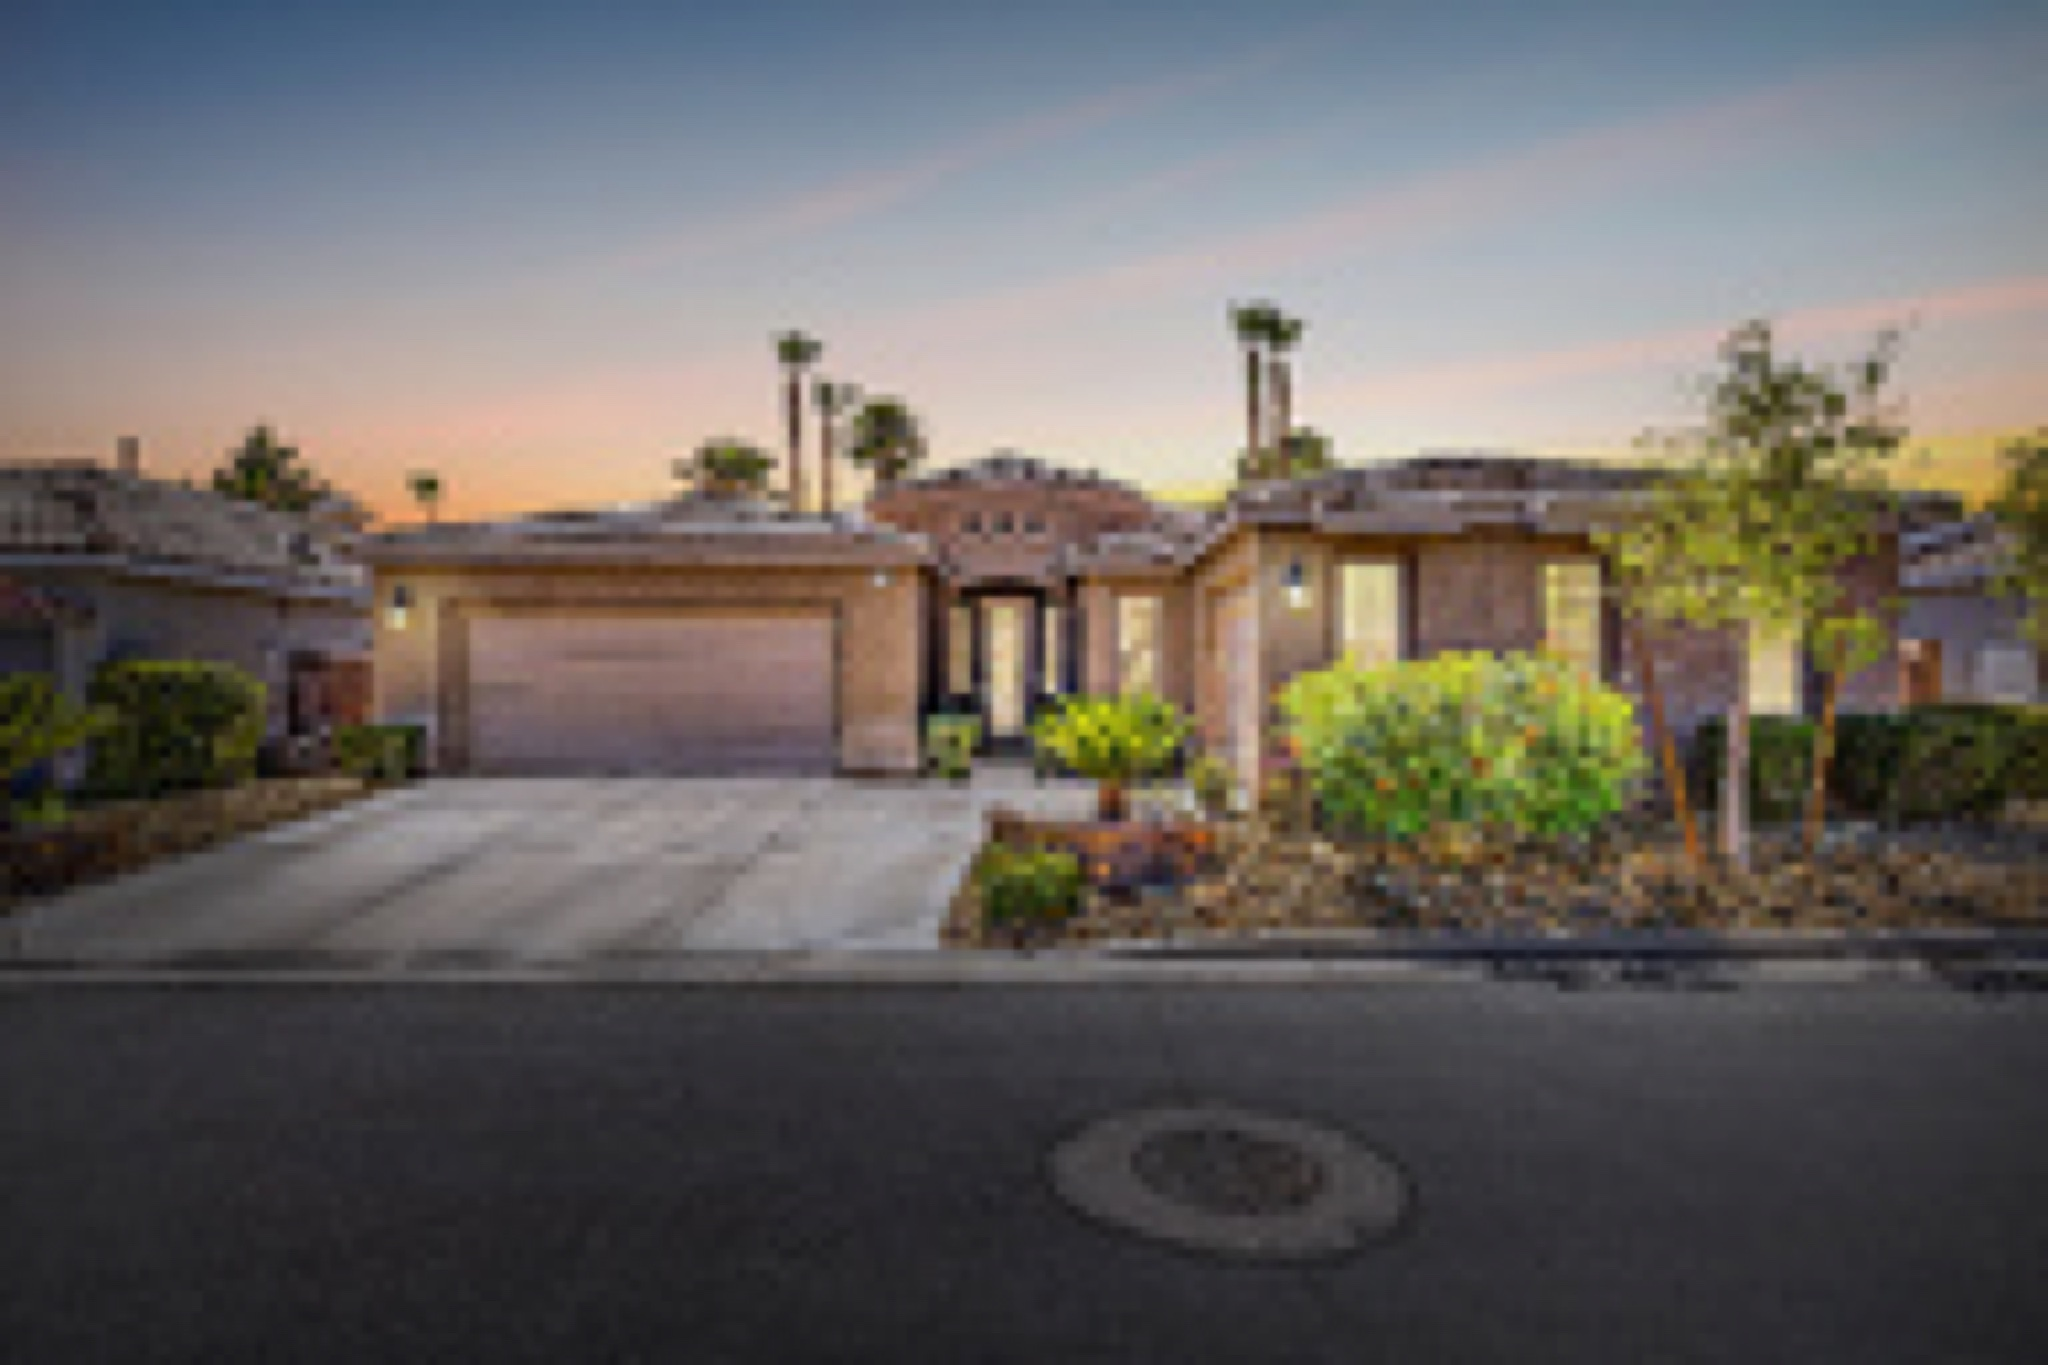
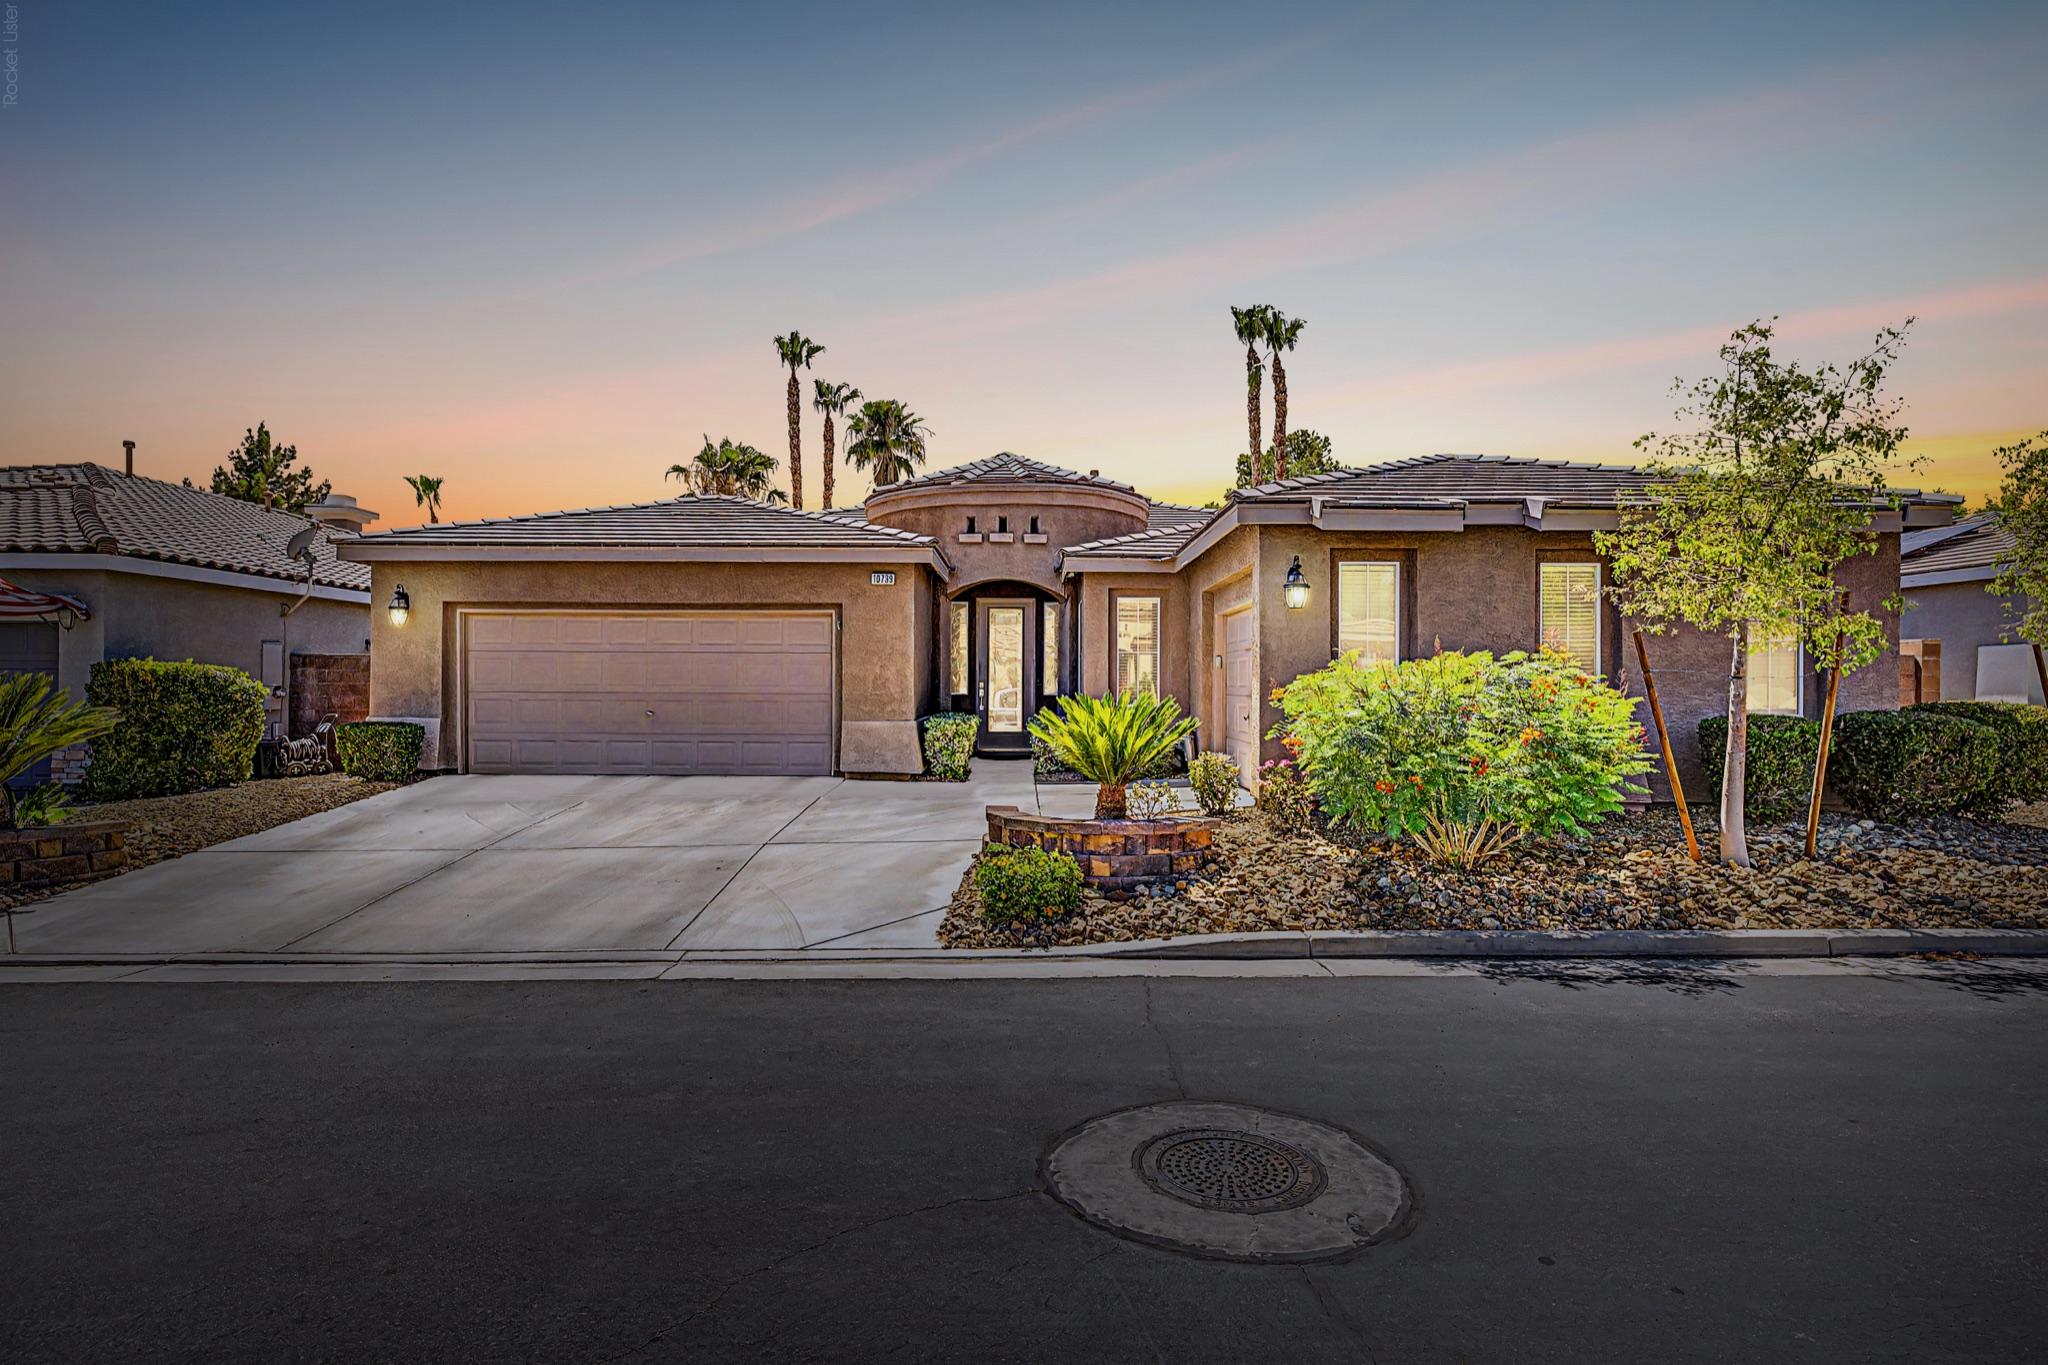
Use sharp twilight for hero; move front shot out of clickable gallery
- Replace hero image with high-res dusk photo (blurry one swapped out);
  dark hero gradient hides the faint watermark and the facade house number
- Keep twilight out of the full-size gallery; promote clean interior (home_14)
  to the gallery lead tile so no address-bearing front shot is viewable full-size

Changed region(s): [[0.0, 0.2154, 1.0, 0.7385], [0.5625, 0.8308, 0.6562, 0.8923], [0.3438, 0.6154, 0.4062, 0.6462]]

diff --git a/index.html b/index.html
@@ -398,7 +398,7 @@
     </div>
 
     <div class="gallery-grid" id="gallery">
-      <figure class="feature" data-index="0"><img src="photos/home_twilight.jpg" alt="Off-market single-story home in Southern Highlands, Las Vegas 89141" loading="lazy" /></figure>
+      <figure class="feature" data-index="0"><img src="photos/home_14.jpg" alt="Off-market single-story home in Southern Highlands, Las Vegas 89141" loading="lazy" /></figure>
       <figure data-index="1"><img src="photos/home_04.jpg" alt="Off-market single-story home in Southern Highlands, Las Vegas 89141" loading="lazy" /></figure>
       <figure data-index="2"><img src="photos/home_05.jpg" alt="Off-market single-story home in Southern Highlands, Las Vegas 89141" loading="lazy" /></figure>
       <figure data-index="3"><img src="photos/home_06.jpg" alt="Off-market single-story home in Southern Highlands, Las Vegas 89141" loading="lazy" /></figure>
@@ -409,58 +409,57 @@
       <figure data-index="8"><img src="photos/home_11.jpg" alt="Off-market single-story home in Southern Highlands, Las Vegas 89141" loading="lazy" /></figure>
       <figure data-index="9"><img src="photos/home_12.jpg" alt="Off-market single-story home in Southern Highlands, Las Vegas 89141" loading="lazy" /></figure>
       <figure data-index="10"><img src="photos/home_13.jpg" alt="Off-market single-story home in Southern Highlands, Las Vegas 89141" loading="lazy" /></figure>
-      <figure data-index="11"><img src="photos/home_14.jpg" alt="Off-market single-story home in Southern Highlands, Las Vegas 89141" loading="lazy" /></figure>
-      <figure data-index="12"><img src="photos/home_15.jpg" alt="Off-market single-story home in Southern Highlands, Las Vegas 89141" loading="lazy" /></figure>
-      <figure data-index="13"><img src="photos/home_16.jpg" alt="Off-market single-story home in Southern Highlands, Las Vegas 89141" loading="lazy" /></figure>
-      <figure data-index="14"><img src="photos/home_17.jpg" alt="Off-market single-story home in Southern Highlands, Las Vegas 89141" loading="lazy" /></figure>
-      <figure data-index="15"><img src="photos/home_18.jpg" alt="Off-market single-story home in Southern Highlands, Las Vegas 89141" loading="lazy" /></figure>
-      <figure data-index="16"><img src="photos/home_19.jpg" alt="Off-market single-story home in Southern Highlands, Las Vegas 89141" loading="lazy" /></figure>
-      <figure data-index="17"><img src="photos/home_20.jpg" alt="Off-market single-story home in Southern Highlands, Las Vegas 89141" loading="lazy" /></figure>
-      <figure data-index="18"><img src="photos/home_21.jpg" alt="Off-market single-story home in Southern Highlands, Las Vegas 89141" loading="lazy" /></figure>
-      <figure data-index="19"><img src="photos/home_22.jpg" alt="Off-market single-story home in Southern Highlands, Las Vegas 89141" loading="lazy" /></figure>
-      <figure data-index="20"><img src="photos/home_23.jpg" alt="Off-market single-story home in Southern Highlands, Las Vegas 89141" loading="lazy" /></figure>
-      <figure data-index="21"><img src="photos/home_24.jpg" alt="Off-market single-story home in Southern Highlands, Las Vegas 89141" loading="lazy" /></figure>
-      <figure data-index="22"><img src="photos/home_25.jpg" alt="Off-market single-story home in Southern Highlands, Las Vegas 89141" loading="lazy" /></figure>
-      <figure data-index="23"><img src="photos/home_26.jpg" alt="Off-market single-story home in Southern Highlands, Las Vegas 89141" loading="lazy" /></figure>
-      <figure data-index="24"><img src="photos/home_27.jpg" alt="Off-market single-story home in Southern Highlands, Las Vegas 89141" loading="lazy" /></figure>
-      <figure data-index="25"><img src="photos/home_28.jpg" alt="Off-market single-story home in Southern Highlands, Las Vegas 89141" loading="lazy" /></figure>
-      <figure data-index="26"><img src="photos/home_29.jpg" alt="Off-market single-story home in Southern Highlands, Las Vegas 89141" loading="lazy" /></figure>
-      <figure data-index="27"><img src="photos/home_30.jpg" alt="Off-market single-story home in Southern Highlands, Las Vegas 89141" loading="lazy" /></figure>
-      <figure data-index="28"><img src="photos/home_31.jpg" alt="Off-market single-story home in Southern Highlands, Las Vegas 89141" loading="lazy" /></figure>
-      <figure data-index="29"><img src="photos/home_32.jpg" alt="Off-market single-story home in Southern Highlands, Las Vegas 89141" loading="lazy" /></figure>
-      <figure data-index="30"><img src="photos/home_33.jpg" alt="Off-market single-story home in Southern Highlands, Las Vegas 89141" loading="lazy" /></figure>
-      <figure data-index="31"><img src="photos/home_34.jpg" alt="Off-market single-story home in Southern Highlands, Las Vegas 89141" loading="lazy" /></figure>
-      <figure data-index="32"><img src="photos/home_35.jpg" alt="Off-market single-story home in Southern Highlands, Las Vegas 89141" loading="lazy" /></figure>
-      <figure data-index="33"><img src="photos/home_36.jpg" alt="Off-market single-story home in Southern Highlands, Las Vegas 89141" loading="lazy" /></figure>
-      <figure data-index="34"><img src="photos/home_37.jpg" alt="Off-market single-story home in Southern Highlands, Las Vegas 89141" loading="lazy" /></figure>
-      <figure data-index="35"><img src="photos/home_38.jpg" alt="Off-market single-story home in Southern Highlands, Las Vegas 89141" loading="lazy" /></figure>
-      <figure data-index="36"><img src="photos/home_39.jpg" alt="Off-market single-story home in Southern Highlands, Las Vegas 89141" loading="lazy" /></figure>
-      <figure data-index="37"><img src="photos/home_40.jpg" alt="Off-market single-story home in Southern Highlands, Las Vegas 89141" loading="lazy" /></figure>
-      <figure data-index="38"><img src="photos/home_41.jpg" alt="Off-market single-story home in Southern Highlands, Las Vegas 89141" loading="lazy" /></figure>
-      <figure data-index="39"><img src="photos/home_42.jpg" alt="Off-market single-story home in Southern Highlands, Las Vegas 89141" loading="lazy" /></figure>
-      <figure data-index="40"><img src="photos/home_43.jpg" alt="Off-market single-story home in Southern Highlands, Las Vegas 89141" loading="lazy" /></figure>
-      <figure data-index="41"><img src="photos/home_44.jpg" alt="Off-market single-story home in Southern Highlands, Las Vegas 89141" loading="lazy" /></figure>
-      <figure data-index="42"><img src="photos/home_45.jpg" alt="Off-market single-story home in Southern Highlands, Las Vegas 89141" loading="lazy" /></figure>
-      <figure data-index="43"><img src="photos/home_46.jpg" alt="Off-market single-story home in Southern Highlands, Las Vegas 89141" loading="lazy" /></figure>
-      <figure data-index="44"><img src="photos/home_47.jpg" alt="Off-market single-story home in Southern Highlands, Las Vegas 89141" loading="lazy" /></figure>
-      <figure data-index="45"><img src="photos/home_48.jpg" alt="Off-market single-story home in Southern Highlands, Las Vegas 89141" loading="lazy" /></figure>
-      <figure data-index="46"><img src="photos/home_49.jpg" alt="Off-market single-story home in Southern Highlands, Las Vegas 89141" loading="lazy" /></figure>
-      <figure data-index="47"><img src="photos/home_50.jpg" alt="Off-market single-story home in Southern Highlands, Las Vegas 89141" loading="lazy" /></figure>
-      <figure data-index="48"><img src="photos/home_51.jpg" alt="Off-market single-story home in Southern Highlands, Las Vegas 89141" loading="lazy" /></figure>
-      <figure data-index="49"><img src="photos/home_52.jpg" alt="Off-market single-story home in Southern Highlands, Las Vegas 89141" loading="lazy" /></figure>
-      <figure data-index="50"><img src="photos/home_53.jpg" alt="Off-market single-story home in Southern Highlands, Las Vegas 89141" loading="lazy" /></figure>
-      <figure data-index="51"><img src="photos/home_54.jpg" alt="Off-market single-story home in Southern Highlands, Las Vegas 89141" loading="lazy" /></figure>
-      <figure data-index="52"><img src="photos/home_55.jpg" alt="Off-market single-story home in Southern Highlands, Las Vegas 89141" loading="lazy" /></figure>
-      <figure data-index="53"><img src="photos/home_56.jpg" alt="Off-market single-story home in Southern Highlands, Las Vegas 89141" loading="lazy" /></figure>
-      <figure data-index="54"><img src="photos/home_57.jpg" alt="Off-market single-story home in Southern Highlands, Las Vegas 89141" loading="lazy" /></figure>
-      <figure data-index="55"><img src="photos/home_58.jpg" alt="Off-market single-story home in Southern Highlands, Las Vegas 89141" loading="lazy" /></figure>
-      <figure data-index="56"><img src="photos/home_59.jpg" alt="Off-market single-story home in Southern Highlands, Las Vegas 89141" loading="lazy" /></figure>
-      <figure data-index="57"><img src="photos/home_60.jpg" alt="Off-market single-story home in Southern Highlands, Las Vegas 89141" loading="lazy" /></figure>
-      <figure data-index="58"><img src="photos/home_61.jpg" alt="Off-market single-story home in Southern Highlands, Las Vegas 89141" loading="lazy" /></figure>
-      <figure data-index="59"><img src="photos/home_62.jpg" alt="Off-market single-story home in Southern Highlands, Las Vegas 89141" loading="lazy" /></figure>
-      <figure data-index="60"><img src="photos/home_63.jpg" alt="Off-market single-story home in Southern Highlands, Las Vegas 89141" loading="lazy" /></figure>
-      <figure data-index="61"><img src="photos/home_64.jpg" alt="Off-market single-story home in Southern Highlands, Las Vegas 89141" loading="lazy" /></figure>
-      <figure data-index="62"><img src="photos/home_65.jpg" alt="Off-market single-story home in Southern Highlands, Las Vegas 89141" loading="lazy" /></figure>
+      <figure data-index="11"><img src="photos/home_15.jpg" alt="Off-market single-story home in Southern Highlands, Las Vegas 89141" loading="lazy" /></figure>
+      <figure data-index="12"><img src="photos/home_16.jpg" alt="Off-market single-story home in Southern Highlands, Las Vegas 89141" loading="lazy" /></figure>
+      <figure data-index="13"><img src="photos/home_17.jpg" alt="Off-market single-story home in Southern Highlands, Las Vegas 89141" loading="lazy" /></figure>
+      <figure data-index="14"><img src="photos/home_18.jpg" alt="Off-market single-story home in Southern Highlands, Las Vegas 89141" loading="lazy" /></figure>
+      <figure data-index="15"><img src="photos/home_19.jpg" alt="Off-market single-story home in Southern Highlands, Las Vegas 89141" loading="lazy" /></figure>
+      <figure data-index="16"><img src="photos/home_20.jpg" alt="Off-market single-story home in Southern Highlands, Las Vegas 89141" loading="lazy" /></figure>
+      <figure data-index="17"><img src="photos/home_21.jpg" alt="Off-market single-story home in Southern Highlands, Las Vegas 89141" loading="lazy" /></figure>
+      <figure data-index="18"><img src="photos/home_22.jpg" alt="Off-market single-story home in Southern Highlands, Las Vegas 89141" loading="lazy" /></figure>
+      <figure data-index="19"><img src="photos/home_23.jpg" alt="Off-market single-story home in Southern Highlands, Las Vegas 89141" loading="lazy" /></figure>
+      <figure data-index="20"><img src="photos/home_24.jpg" alt="Off-market single-story home in Southern Highlands, Las Vegas 89141" loading="lazy" /></figure>
+      <figure data-index="21"><img src="photos/home_25.jpg" alt="Off-market single-story home in Southern Highlands, Las Vegas 89141" loading="lazy" /></figure>
+      <figure data-index="22"><img src="photos/home_26.jpg" alt="Off-market single-story home in Southern Highlands, Las Vegas 89141" loading="lazy" /></figure>
+      <figure data-index="23"><img src="photos/home_27.jpg" alt="Off-market single-story home in Southern Highlands, Las Vegas 89141" loading="lazy" /></figure>
+      <figure data-index="24"><img src="photos/home_28.jpg" alt="Off-market single-story home in Southern Highlands, Las Vegas 89141" loading="lazy" /></figure>
+      <figure data-index="25"><img src="photos/home_29.jpg" alt="Off-market single-story home in Southern Highlands, Las Vegas 89141" loading="lazy" /></figure>
+      <figure data-index="26"><img src="photos/home_30.jpg" alt="Off-market single-story home in Southern Highlands, Las Vegas 89141" loading="lazy" /></figure>
+      <figure data-index="27"><img src="photos/home_31.jpg" alt="Off-market single-story home in Southern Highlands, Las Vegas 89141" loading="lazy" /></figure>
+      <figure data-index="28"><img src="photos/home_32.jpg" alt="Off-market single-story home in Southern Highlands, Las Vegas 89141" loading="lazy" /></figure>
+      <figure data-index="29"><img src="photos/home_33.jpg" alt="Off-market single-story home in Southern Highlands, Las Vegas 89141" loading="lazy" /></figure>
+      <figure data-index="30"><img src="photos/home_34.jpg" alt="Off-market single-story home in Southern Highlands, Las Vegas 89141" loading="lazy" /></figure>
+      <figure data-index="31"><img src="photos/home_35.jpg" alt="Off-market single-story home in Southern Highlands, Las Vegas 89141" loading="lazy" /></figure>
+      <figure data-index="32"><img src="photos/home_36.jpg" alt="Off-market single-story home in Southern Highlands, Las Vegas 89141" loading="lazy" /></figure>
+      <figure data-index="33"><img src="photos/home_37.jpg" alt="Off-market single-story home in Southern Highlands, Las Vegas 89141" loading="lazy" /></figure>
+      <figure data-index="34"><img src="photos/home_38.jpg" alt="Off-market single-story home in Southern Highlands, Las Vegas 89141" loading="lazy" /></figure>
+      <figure data-index="35"><img src="photos/home_39.jpg" alt="Off-market single-story home in Southern Highlands, Las Vegas 89141" loading="lazy" /></figure>
+      <figure data-index="36"><img src="photos/home_40.jpg" alt="Off-market single-story home in Southern Highlands, Las Vegas 89141" loading="lazy" /></figure>
+      <figure data-index="37"><img src="photos/home_41.jpg" alt="Off-market single-story home in Southern Highlands, Las Vegas 89141" loading="lazy" /></figure>
+      <figure data-index="38"><img src="photos/home_42.jpg" alt="Off-market single-story home in Southern Highlands, Las Vegas 89141" loading="lazy" /></figure>
+      <figure data-index="39"><img src="photos/home_43.jpg" alt="Off-market single-story home in Southern Highlands, Las Vegas 89141" loading="lazy" /></figure>
+      <figure data-index="40"><img src="photos/home_44.jpg" alt="Off-market single-story home in Southern Highlands, Las Vegas 89141" loading="lazy" /></figure>
+      <figure data-index="41"><img src="photos/home_45.jpg" alt="Off-market single-story home in Southern Highlands, Las Vegas 89141" loading="lazy" /></figure>
+      <figure data-index="42"><img src="photos/home_46.jpg" alt="Off-market single-story home in Southern Highlands, Las Vegas 89141" loading="lazy" /></figure>
+      <figure data-index="43"><img src="photos/home_47.jpg" alt="Off-market single-story home in Southern Highlands, Las Vegas 89141" loading="lazy" /></figure>
+      <figure data-index="44"><img src="photos/home_48.jpg" alt="Off-market single-story home in Southern Highlands, Las Vegas 89141" loading="lazy" /></figure>
+      <figure data-index="45"><img src="photos/home_49.jpg" alt="Off-market single-story home in Southern Highlands, Las Vegas 89141" loading="lazy" /></figure>
+      <figure data-index="46"><img src="photos/home_50.jpg" alt="Off-market single-story home in Southern Highlands, Las Vegas 89141" loading="lazy" /></figure>
+      <figure data-index="47"><img src="photos/home_51.jpg" alt="Off-market single-story home in Southern Highlands, Las Vegas 89141" loading="lazy" /></figure>
+      <figure data-index="48"><img src="photos/home_52.jpg" alt="Off-market single-story home in Southern Highlands, Las Vegas 89141" loading="lazy" /></figure>
+      <figure data-index="49"><img src="photos/home_53.jpg" alt="Off-market single-story home in Southern Highlands, Las Vegas 89141" loading="lazy" /></figure>
+      <figure data-index="50"><img src="photos/home_54.jpg" alt="Off-market single-story home in Southern Highlands, Las Vegas 89141" loading="lazy" /></figure>
+      <figure data-index="51"><img src="photos/home_55.jpg" alt="Off-market single-story home in Southern Highlands, Las Vegas 89141" loading="lazy" /></figure>
+      <figure data-index="52"><img src="photos/home_56.jpg" alt="Off-market single-story home in Southern Highlands, Las Vegas 89141" loading="lazy" /></figure>
+      <figure data-index="53"><img src="photos/home_57.jpg" alt="Off-market single-story home in Southern Highlands, Las Vegas 89141" loading="lazy" /></figure>
+      <figure data-index="54"><img src="photos/home_58.jpg" alt="Off-market single-story home in Southern Highlands, Las Vegas 89141" loading="lazy" /></figure>
+      <figure data-index="55"><img src="photos/home_59.jpg" alt="Off-market single-story home in Southern Highlands, Las Vegas 89141" loading="lazy" /></figure>
+      <figure data-index="56"><img src="photos/home_60.jpg" alt="Off-market single-story home in Southern Highlands, Las Vegas 89141" loading="lazy" /></figure>
+      <figure data-index="57"><img src="photos/home_61.jpg" alt="Off-market single-story home in Southern Highlands, Las Vegas 89141" loading="lazy" /></figure>
+      <figure data-index="58"><img src="photos/home_62.jpg" alt="Off-market single-story home in Southern Highlands, Las Vegas 89141" loading="lazy" /></figure>
+      <figure data-index="59"><img src="photos/home_63.jpg" alt="Off-market single-story home in Southern Highlands, Las Vegas 89141" loading="lazy" /></figure>
+      <figure data-index="60"><img src="photos/home_64.jpg" alt="Off-market single-story home in Southern Highlands, Las Vegas 89141" loading="lazy" /></figure>
+      <figure data-index="61"><img src="photos/home_65.jpg" alt="Off-market single-story home in Southern Highlands, Las Vegas 89141" loading="lazy" /></figure>
     </div>
   </div>
 </section>
@@ -534,7 +533,7 @@
   <button class="lightbox-prev" id="lightbox-prev" aria-label="Previous photo">&#10094;</button>
   <img id="lightbox-img" src="" alt="" />
   <button class="lightbox-next" id="lightbox-next" aria-label="Next photo">&#10095;</button>
-  <div class="lightbox-counter" id="lightbox-counter">1 / 63</div>
+  <div class="lightbox-counter" id="lightbox-counter">1 / 62</div>
 </div>
 
 <footer class="site-footer">